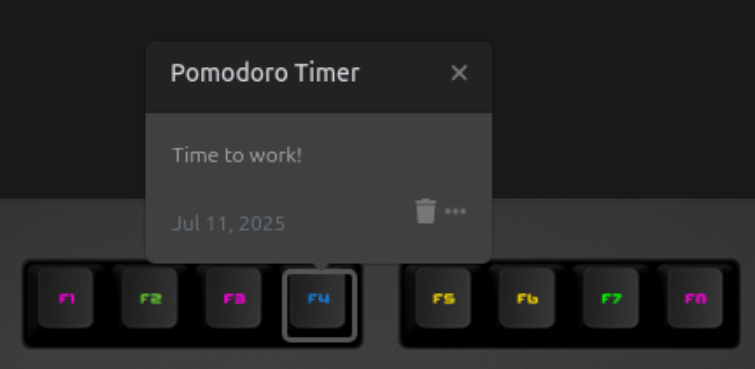
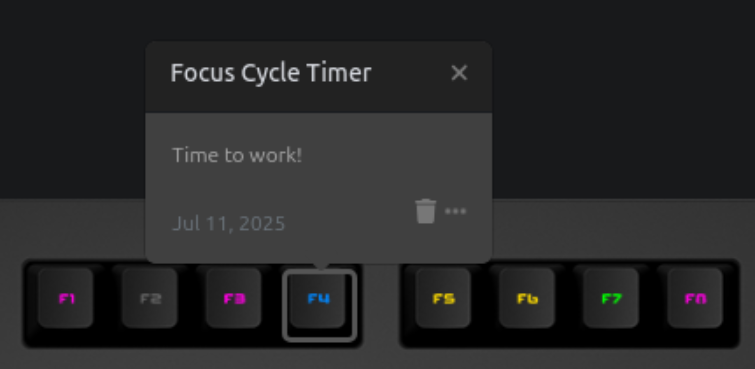
chore: update image.png refactor: change variable names and update package.json

Changed region(s): [[0.2132, 0.1491, 0.4874, 0.2385], [0.1828, 0.7751, 0.2132, 0.8347]]

diff --git a/index.js b/index.js
@@ -32,7 +32,7 @@ class FocusCycleTimer extends q.DesktopApp {
 
     return new q.Signal({
       points: [[new q.Point(color, effect)]],
-      name: "Pomodoro Timer",
+      name: "Focus Cycle Timer",
       message: message,
     });
   }
